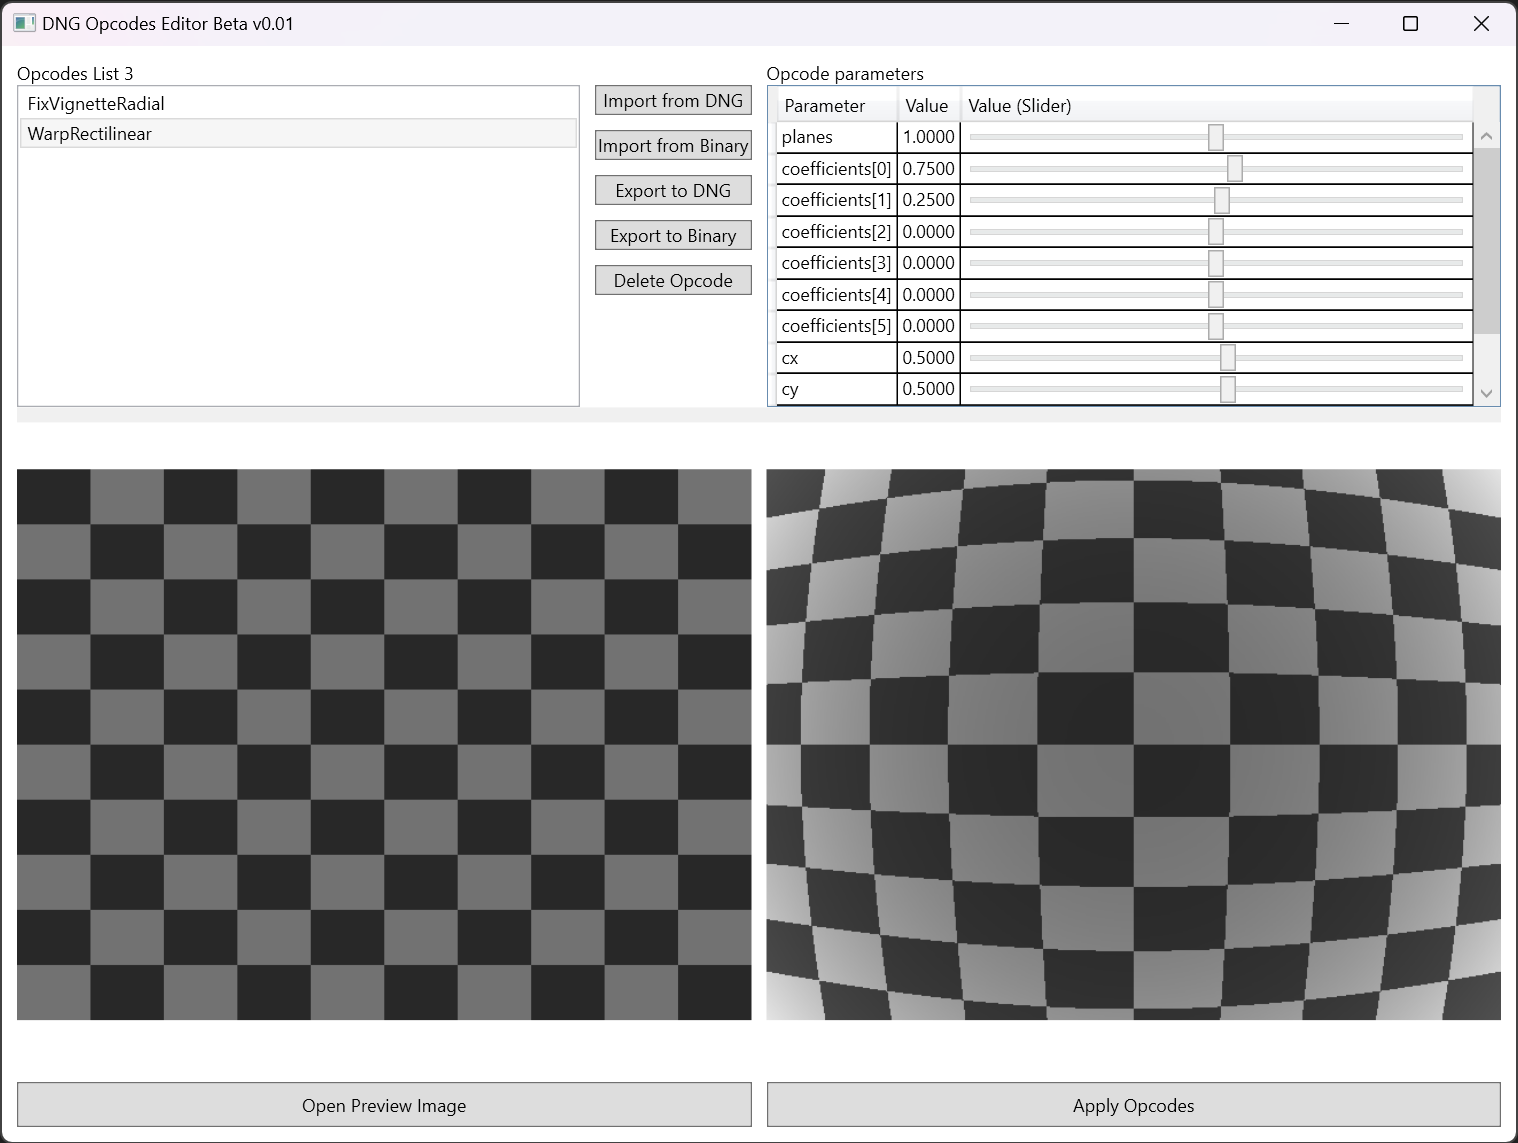
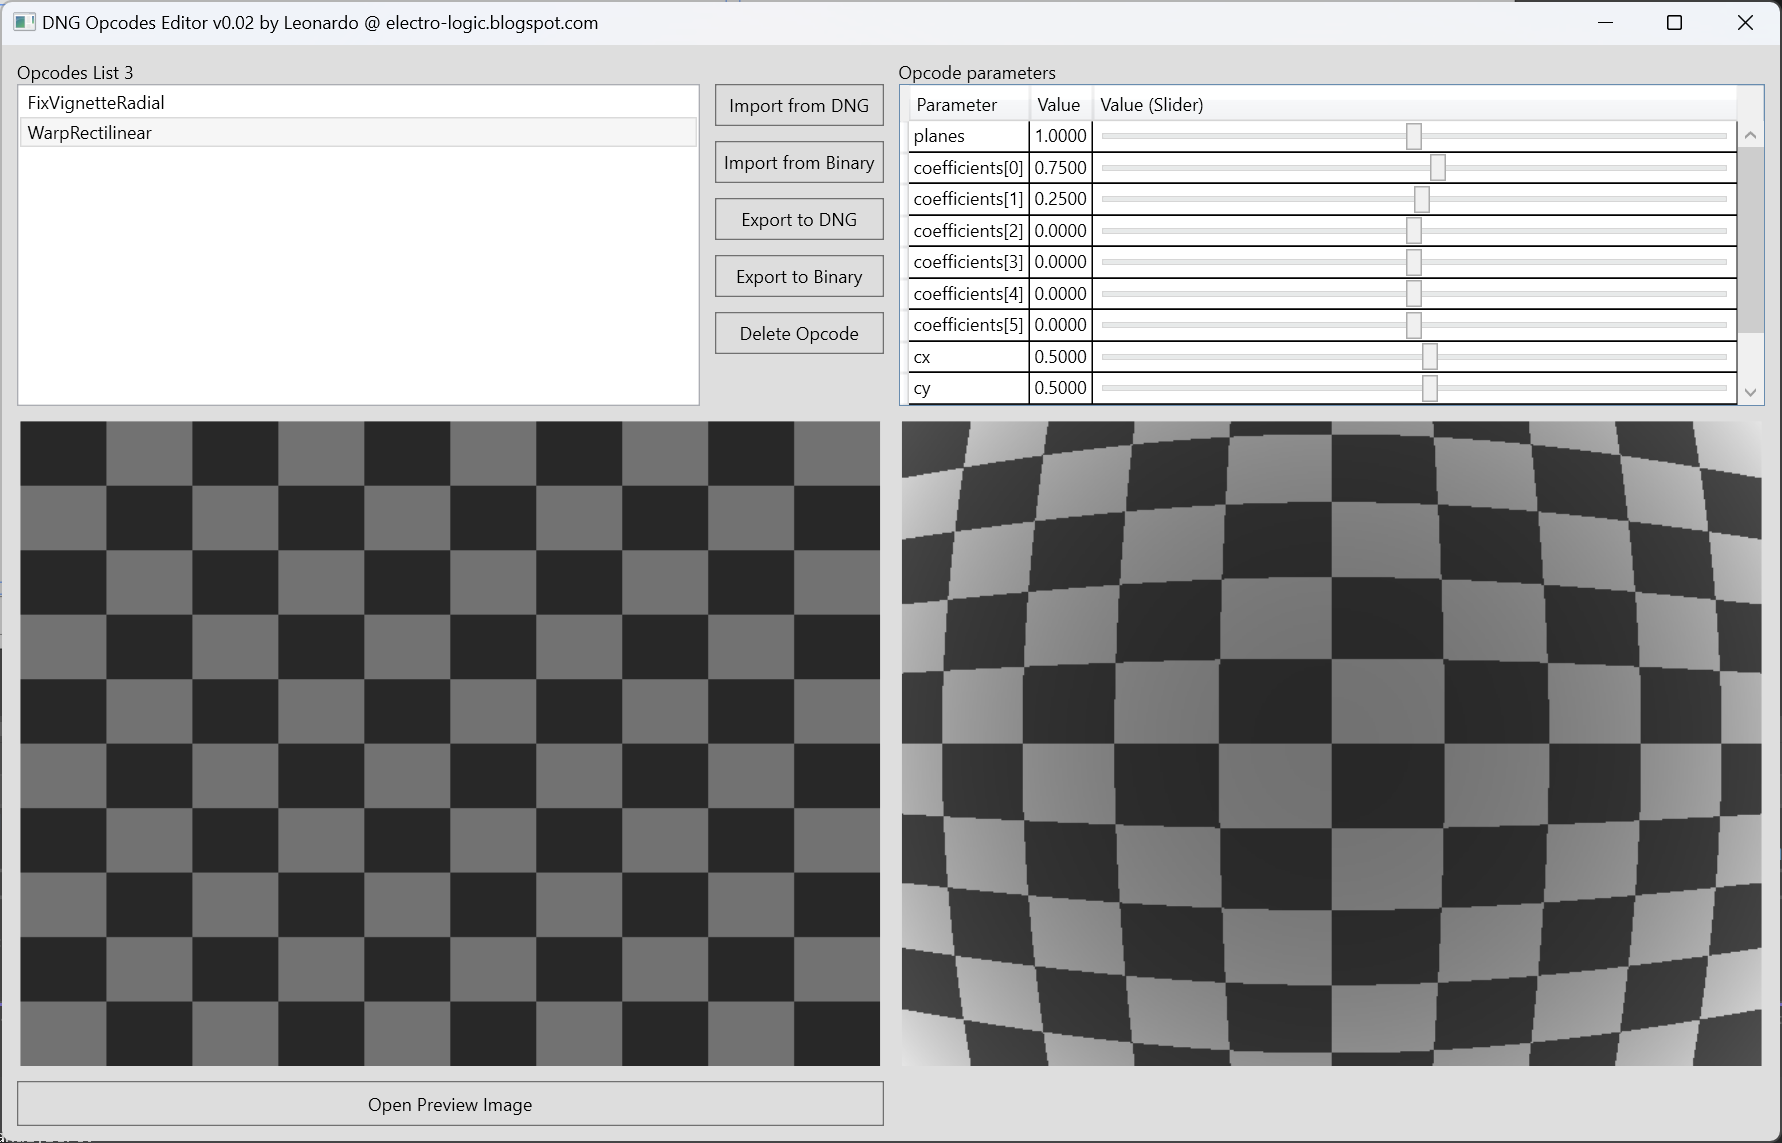
- v0.02 - Improved Performances - Bugfixes

diff --git a/MainWindow.xaml b/MainWindow.xaml
@@ -1,6 +1,6 @@
 <Window x:Class="DngOpcodesEditor.MainWindow" xmlns:local="clr-namespace:DngOpcodesEditor"
         xmlns="http://schemas.microsoft.com/winfx/2006/xaml/presentation" xmlns:x="http://schemas.microsoft.com/winfx/2006/xaml" xmlns:d="http://schemas.microsoft.com/expression/blend/2008" xmlns:mc="http://schemas.openxmlformats.org/markup-compatibility/2006" mc:Ignorable="d" 
-        WindowStartupLocation="CenterScreen" WindowState="Normal" Title="DNG Opcodes Editor Beta v0.01" Width="1024" Height="768">
+        WindowStartupLocation="CenterScreen" WindowState="Normal" Title="DNG Opcodes Editor v0.02 by Leonardo @ electro-logic.blogspot.com" Width="1200" Height="768" Background="#FFDEDEDE">
     <Window.DataContext>
         <local:MainWindowVM x:Name="ViewModel" />
     </Window.DataContext>
@@ -12,14 +12,14 @@
         </Grid.ColumnDefinitions>
         <Grid.RowDefinitions>
             <RowDefinition Height="Auto"/>
-            <RowDefinition Height="3*" />
+            <RowDefinition />
             <RowDefinition Height="10"/>
-            <RowDefinition Height="6*"/>
+            <RowDefinition Height="2*"/>
             <RowDefinition Height="10"/>
             <RowDefinition Height="30"/>
         </Grid.RowDefinitions>
         <DataGrid Grid.Column="2" ItemsSource="{Binding SelectedOpcode.Parameters}" AutoGenerateColumns="False" Grid.Row="1" 
-                  CellEditEnding="DataGrid_CellEditEnding">
+                  CellEditEnding="DataGrid_CellEditEnding" CanUserAddRows="False" CanUserDeleteRows="False">
             <DataGrid.Columns>
                 <DataGridTextColumn Header="Parameter" Binding="{Binding Description}" />
                 <DataGridTextColumn Header="Value" Binding="{Binding Value, StringFormat=F4}" />
@@ -46,6 +46,7 @@
                 <StackPanel.Resources>
                     <Style TargetType="Button">
                         <Setter Property="Margin" Value="0,0,0,10" />
+                        <Setter Property="Padding" Value="5" />
                     </Style>
                 </StackPanel.Resources>
                 <Button Content="Import from DNG" Click="btnImportDNG_Click" />
@@ -62,9 +63,9 @@
         <Image Grid.Row="3" Source="{Binding ImgSrc.Bmp}" />
         <Image Grid.Row="3" Source="{Binding ImgDst.Bmp}" Grid.Column="2"/>
         <Button Content="Open Preview Image" Grid.Row="5" Click="btnOpenImage_Click" />
-        <Button Grid.Column="2" Content="Apply Opcodes" Grid.Row="5" Click="btnApplyOpcodes_Click"/>
+        <!--<Button Grid.Column="2" Content="Apply Opcodes" Grid.Row="5" Click="btnApplyOpcodes_Click"/>-->
         <TextBlock Text="Opcodes List 3"/>
         <TextBlock Grid.Column="2" Text="Opcode parameters"/>
-        <GridSplitter Grid.ColumnSpan="3" Grid.Row="2" HorizontalAlignment="Stretch" />
+        <GridSplitter Grid.ColumnSpan="3" Grid.Row="2" HorizontalAlignment="Stretch" Background="#00F0F0F0" />
     </Grid>
 </Window>

diff --git a/Dng.cs b/Dng.cs
@@ -1,6 +1,7 @@
 using CommunityToolkit.Mvvm.ComponentModel;
 using System;
 using System.Collections.Generic;
+using System.Diagnostics;
 using System.Reflection;
 
 namespace DngOpcodesEditor
@@ -70,14 +71,20 @@ namespace DngOpcodesEditor
                                 FieldName = field.Name,
                                 ArrayIndex = arrayIndex
                             };
-                            parameters.PropertyChanged += (s, e) => {
-
-                                var p = s as OpcodeParameter;
-                                var field = GetType().GetField(p.FieldName);
-                                var array = field.GetValue(this) as Array;
-                                var arrayType = array.GetType().GetElementType();
-                                var newValue = Convert.ChangeType(p.Value, arrayType);
-                                array.SetValue(newValue, p.ArrayIndex);
+                            parameters.PropertyChanging += (s, e) => {
+                                try
+                                {
+                                    var p = s as OpcodeParameter;
+                                    var field = GetType().GetField(p.FieldName);
+                                    var array = field.GetValue(this) as Array;
+                                    var arrayType = array.GetType().GetElementType();
+                                    var newValue = Convert.ChangeType(p.Value, arrayType);
+                                    array.SetValue(newValue, p.ArrayIndex);
+                                }
+                                catch (Exception ex)
+                                {
+                                    Debug.WriteLine(ex);
+                                }
                             };
                             result.Add(parameters);
                         }
@@ -90,11 +97,17 @@ namespace DngOpcodesEditor
                             Value = field.GetValue(this),
                             FieldName = field.Name
                         };
-                        parameters.PropertyChanged += (s,e)=> {
-
-                            var p = s as OpcodeParameter;
-                            var field = GetType().GetField(p.FieldName);
-                            field.SetValue(this, Convert.ChangeType(p.Value, field.FieldType));
+                        parameters.PropertyChanging += (s,e)=> {
+                            try
+                            {
+                                var p = s as OpcodeParameter;
+                                var field = GetType().GetField(p.FieldName);
+                                field.SetValue(this, Convert.ChangeType(p.Value, field.FieldType));
+                            }
+                            catch (Exception ex)
+                            {
+                                Debug.WriteLine(ex);
+                            }
                         };
                         result.Add(parameters);
                     }

diff --git a/MainWindow.xaml.cs b/MainWindow.xaml.cs
@@ -8,20 +8,27 @@ namespace DngOpcodesEditor
         {
             InitializeComponent();
             //cbOpcodesIDs.ItemsSource = Enum.GetValues(typeof(OpcodeId));
+
+            ViewModel.OpenImage(@"Samples\grid.tiff");
             ViewModel.ImportBin(@"Samples\FixVignetteRadial.bin");
             ViewModel.ImportBin(@"Samples\WarpRectilinear.bin");
-            ViewModel.OpenImage(@"Samples\grid.tiff");
             ViewModel.ApplyOpcodes();
         }
-        void btnImportDNG_Click(object sender, RoutedEventArgs e) => ViewModel.ImportDng();
-        void btnImportBin_Click(object sender, RoutedEventArgs e) => ViewModel.ImportBin();
-        void btnOpenImage_Click(object sender, RoutedEventArgs e) => ViewModel.OpenImage();
+        void btnImportDNG_Click(object sender, RoutedEventArgs e) { ViewModel.ImportDng(); ViewModel.ApplyOpcodes(); }
+        void btnImportBin_Click(object sender, RoutedEventArgs e) { ViewModel.ImportBin(); ViewModel.ApplyOpcodes(); }
+        void btnOpenImage_Click(object sender, RoutedEventArgs e) { ViewModel.OpenImage(); ViewModel.ApplyOpcodes(); }
         void btnApplyOpcodes_Click(object sender, RoutedEventArgs e) => ViewModel.ApplyOpcodes();
-        void btnDeleteOpcode_Click(object sender, RoutedEventArgs e) => ViewModel.Opcodes.Remove(ViewModel.SelectedOpcode);
+        void btnDeleteOpcode_Click(object sender, RoutedEventArgs e) { ViewModel.Opcodes.Remove(ViewModel.SelectedOpcode); ViewModel.ApplyOpcodes(); }
         void btnExportBin_Click(object sender, RoutedEventArgs e) => ViewModel.ExportBin();
         void btnExportDNG_Click(object sender, RoutedEventArgs e) => ViewModel.ExportDNG();
         void DataGrid_CellEditEnding(object sender, System.Windows.Controls.DataGridCellEditEndingEventArgs e) => ViewModel.ApplyOpcodes();
-        void Slider_ValueChanged(object sender, RoutedPropertyChangedEventArgs<double> e) => ViewModel.ApplyOpcodes();
+        void Slider_ValueChanged(object sender, RoutedPropertyChangedEventArgs<double> e)
+        {
+            if (e.OldValue != 0.0)
+            {
+                ViewModel.ApplyOpcodes();
+            }
+        }
         /*
 void btnMoveUp_Click(object sender, RoutedEventArgs e) { }
 void btnMoveDown_Click(object sender, RoutedEventArgs e) { }

diff --git a/OpcodesImplementation.cs b/OpcodesImplementation.cs
@@ -8,6 +8,7 @@ namespace DngOpcodesEditor
     {
         public static void FixVignetteRadial(Image img, OpcodeFixVignetteRadial parameters)
         {
+            var sw = Stopwatch.StartNew();
             double k0 = parameters.k0;
             double k1 = parameters.k1;
             double k2 = parameters.k2;
@@ -40,9 +41,11 @@ namespace DngOpcodesEditor
                     img[x, y] = pixel_b | (pixel_g << 8) | (pixel_r << 16) | (pixel_a << 24);
                 }
             });
+            Debug.WriteLine($"FixVignetteRadial executed in {sw.ElapsedMilliseconds}ms");
         }
         public static void WarpRectilinear(Image img, OpcodeWarpRectilinear parameters)
         {
+            var sw = Stopwatch.StartNew();
             if (parameters.planes != 1)
             {
                 Debug.WriteLine("Multiple planes support not implemented");
@@ -90,6 +93,7 @@ namespace DngOpcodesEditor
                 }
             });
             img._pixels = newImg;
+            Debug.WriteLine($"WarpRectilinear executed in {sw.ElapsedMilliseconds}ms");
         }
     }
 }

diff --git a/MainWindowVM.cs b/MainWindowVM.cs
@@ -16,6 +16,16 @@ namespace DngOpcodesEditor
         Opcode _selectedOpcode;
         [ObservableProperty]
         Image _imgSrc, _imgDst;
+        public MainWindowVM()
+        {
+            _opcodes.CollectionChanged += (s, e) =>
+            {
+                if (!Opcodes.Contains(SelectedOpcode))
+                {
+                    SelectedOpcode = Opcodes.Last();
+                }
+            };
+        }
         public void OpenImage()
         {
             var dialog = new OpenFileDialog() { Filter = "All files (*.*)|*.*" };
